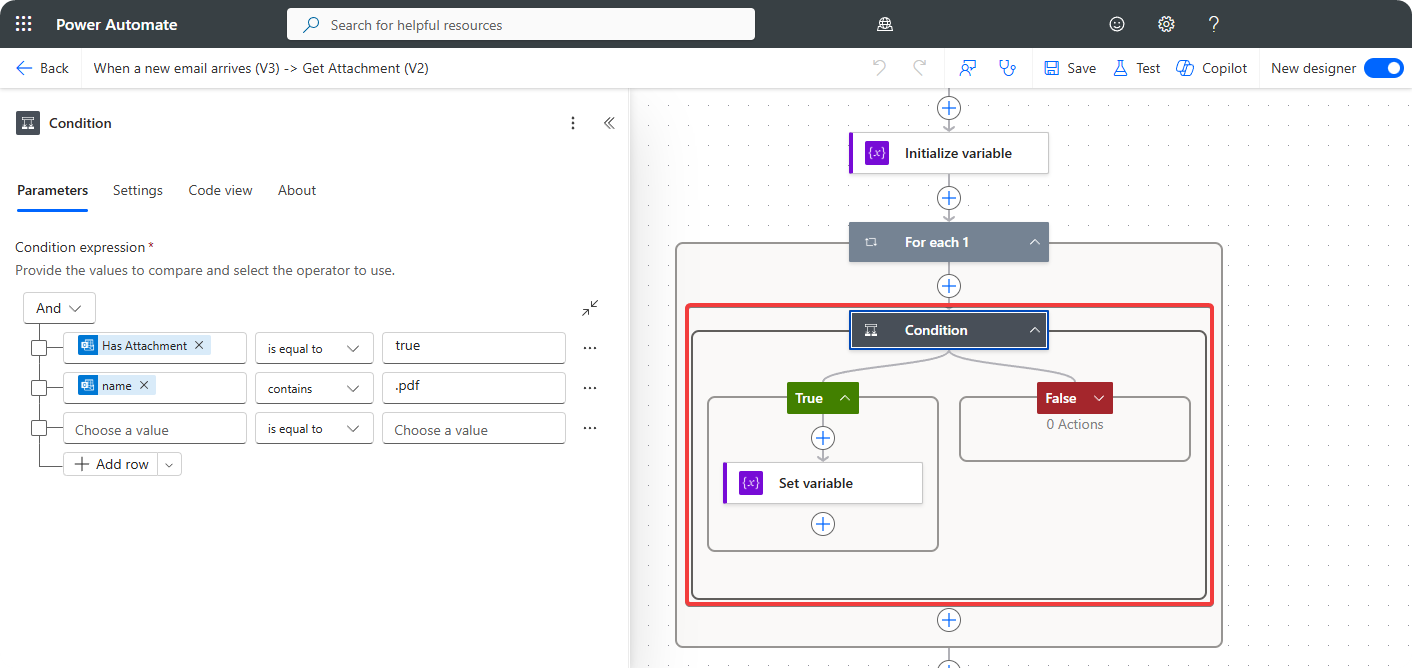
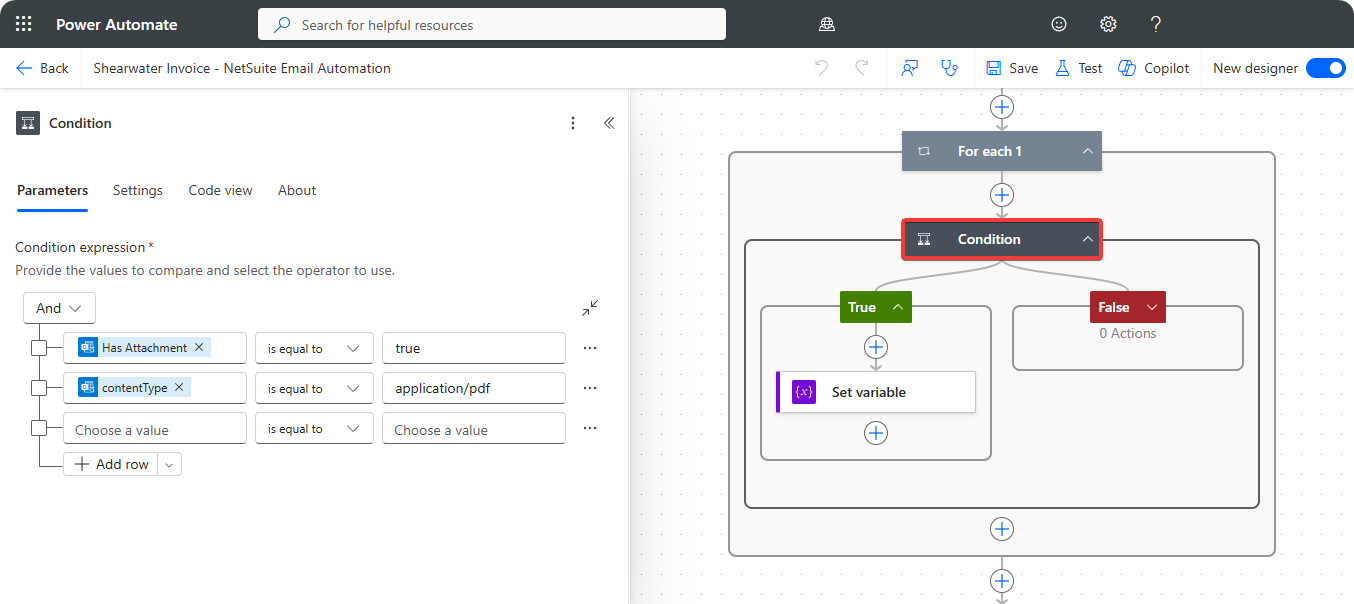
Quartz sync: Nov 17, 2025, 10:29 AM

diff --git a/content/Documents/0022 Automating Email Sorting with Power Automate.md b/content/Documents/0022 Automating Email Sorting with Power Automate.md
@@ -36,7 +36,7 @@ However, after resarching for a bit I found out that Power Automate allows us to
 
     ![[0000 Automating-Email-Sorting-with-Power-Automate-04.png]]
 
-6. Inside **Condition** use the parameters **Has Attachments** and **Name** with the following configuration.
+6. Inside **Condition** use the parameters **Has Attachments** and **Attachment Type** with the following configuration.
 
     ![[0000 Automating-Email-Sorting-with-Power-Automate-05.png]]
 
